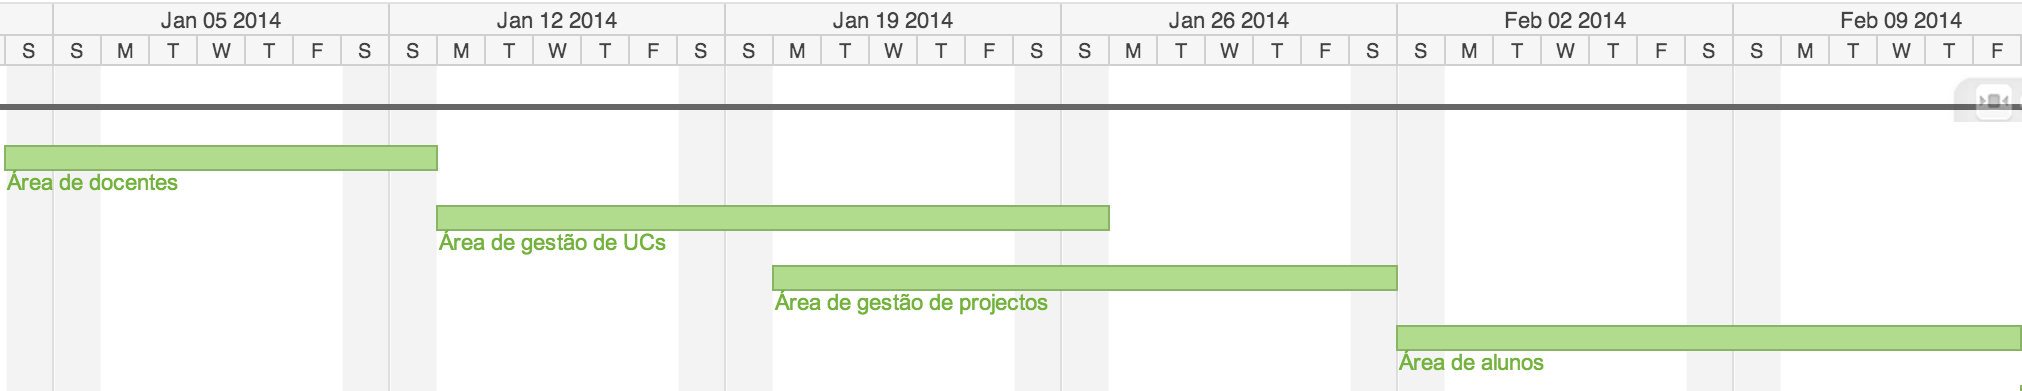
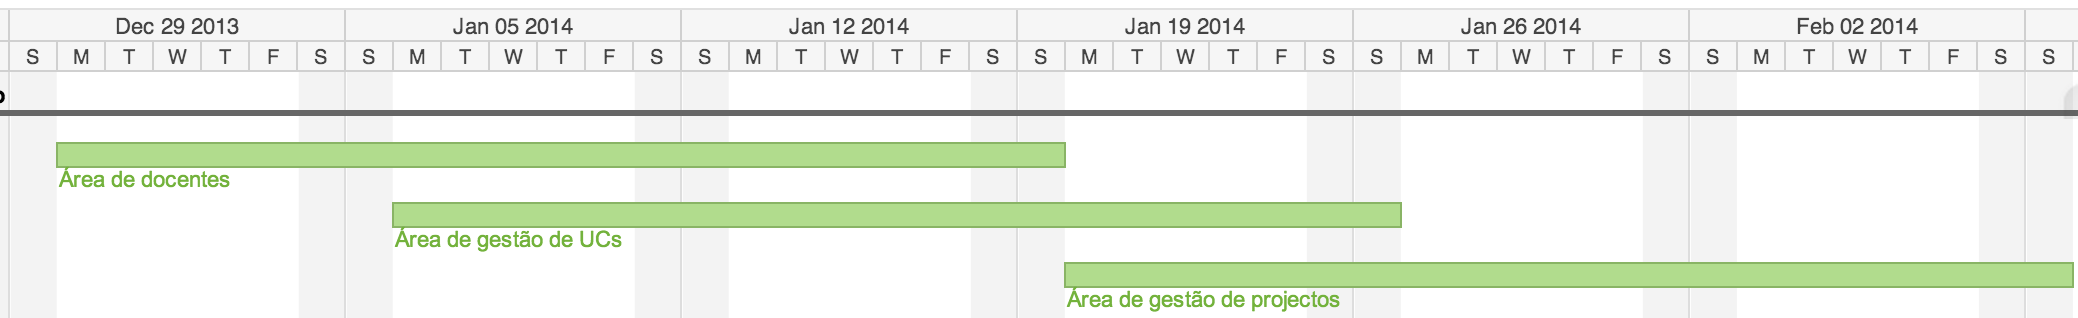
Adiciona novos diagramas e altera textos

diff --git a/plano_de_trabalho.tex b/plano_de_trabalho.tex
@@ -1,76 +1,82 @@
 \section{Plano de trabalho}
-Tendo em conta a dimensão da aplicaçãoewf,,,,,,,,,,,,,,,,,,, foi criado um plano de trabalho onde mapeámos as tarefas
-de desenvolvimento no tempo de forma contínua tornado assim possível adaptar um ritmo de trabalho
+Tendo em conta a dimensão da aplicação, foi criado um plano de trabalho onde se mapearam as tarefas
+de desenvolvimento no tempo de forma contínua, tornando assim possível adaptar um ritmo de trabalho
 consistente com os prazos de entrega de cada fase e então cumprir as metas do projecto.
-Nesse sentido dividimos o projecto em três fases, sendo elas o planeamento e análise de requisitos, o
-desenvolvimento e a documentação.
+Nesse sentido dividiu-se o projecto em três fases, sendo elas o \textbf{planeamento e análise de requisitos}, o
+\textbf{desenvolvimento} e a \textbf{documentação}.
 No que diz respeito à fase de planeamento e análise de requisitos, esta fase engloba todo o levantamento 
-de funcionalidades assim como todo o planeamento e estruturação do projecto como
-criação do modelo de domínio, diagrama de classes, modelação do repositório de dados,
-análise da concorrência, plano tecnológico, etc.
+de funcionalidades assim como todo o planeamento e estruturação do projecto 
+nomeadamente, criação do modelo de domínio, diagrama de classes, modelação do repositório de dados,
+análise da concorrência, plano de trabalho, plano tecnológico, casos de estudo, arquitectura do sistema, etc.
 Para esta fase de planeamento, análise e modelação foi criado um plano de um mês onde todas as tarefas 
-teriam de estar concluídas. Na imagem seguinte é possível ver um diagrama de Gannt com
+teriam de estar concluídas. Na Figura \ref{fig: workplan1} é possível ver um diagrama de Gannt com
 o planeamento inicial.
-
-
 
 \begin{figure}[htbp] 
 	\centering
-	\includegraphics[width=1\textwidth]{images/plano_trabalho_1.png}
+	\includegraphics[width=1\textwidth]{images/plano_de_trabalho/gannt_1.png}
  	\caption{Diagrama de Gannt para o planeamento e análise de requisitos}
  	\label{fig: workplan1}
 \end{figure}
 
-
 De seguida, prosseguindo para o planeamento da fase de desenvolvimento após 
 analisar as funcionalidades e modelar o sistema  é altura de começar a 
 prototipar a aplicação e começar a iterar sobre as funcionalidades a 
-implementar. Neste sentido englobámos aqui tarefas como prototipagem em HTML, 
+implementar. Neste sentido englobaram-se aqui tarefas como prototipagem em HTML, 
 criação de migrações na modelação da base dados, modelação das entidades a 
 representar (modelos) na forma da arquitectura MVC seguindo-se a implementação dos 
-controladores e visões tendo como base as funcionalidades a desenvolver para o 
-sistema.  Nesta fase pretende-se tornar a aplicação capaz de suportar os seus 
+controladores e visões, tendo como base as funcionalidades a desenvolver para o 
+sistema. Nesta fase pretende-se tornar a aplicação capaz de suportar os seus 
 utilizadores (não registados, docentes e alunos) das tarefas de gestão de UCs, 
-projectos, grupos, submissões, assim como consulta e disponibilização de 
-projectos. De forma a tornar a aplicação o mais robusta possível planeamos um 
-espaço temporal dedicado a testes de usabilidade e funcionalidade de forma a 
-corrigir todos os pormenores que possam ter um impacto negativo.
+projectos, grupos e submissões, assim como consulta e disponibilização de 
+projectos. No que diz respeito à metodologia de desenvolvimento seguir-se-ão 
+os métodos e princípios de desenvolvimento de software \textit{Agile}. Posto isto, 
+far-se-á um desenvolvimento cíclico e iterativo focado em cada grupo de 
+funcionalidades, desenvolvendo-as, testando-as e validando-as. Caso seja 
+necessário fazer novas iterações sobre um grupo de funcionalidades, basta 
+repetir o ciclo até que seja possível validar o que foi desenvolvido e de seguida inicia-se 
+um novo ciclo de desenvolvimento para o grupo de funcionalidades seguinte.
+Desta forma é possível uma rápida adaptação a mudanças e ajustes sem ter que verificar e 
+revalidar todo o planeamento inicial do projecto e ainda assim atingir as metas 
+definidas.
+Faça-se notar que em cada ciclo de desenvolvimento para além da implementação,
+ serão feitos testes de usabilidade e funcionalidade, dessa forma é possível garantir que em cada estado do 
+desenvolvimento, todas as funcionalidades implementadas encontram-se o mais perto 
+do idealizado possível.
+Durante cada ciclo de desenvolvimento também faremos a integração da 
+documentação relativa ao grupo de funcionalidades que estão a ser implementadas.
+É possível ver nas Figuras \ref{fig: workplan2}, \ref{fig: workplan3}, \ref{fig: workplan4} 
+os diagramas de Gannt com o planeamento respectivo à fase de desenvolvimento.
 
-
-\begin{figure}[htbp] 
+\begin{figure}[htbp!] 
 	\centering
-	\includegraphics[width=1\textwidth]{images/plano_trabalho_2.png}
+	\includegraphics[width=1\textwidth]{images/plano_de_trabalho/gannt_2.png}
  	\caption{Diagrama de Gannt para o desenvolvimento I}
  	\label{fig: workplan2}
 \end{figure}
 
-\begin{figure}[htbp] 
+\begin{figure}[htbp!] 
 	\centering
-	\includegraphics[width=1\textwidth]{images/plano_trabalho_3.png}
+	\includegraphics[width=1\textwidth]{images/plano_de_trabalho/gannt_3.png}
  	\caption{Diagrama de Gannt para o desenvolvimento II}
  	\label{fig: workplan3}
 \end{figure}
 
-\begin{figure}[htbp] 
+\begin{figure}[htbp!] 
 	\centering
-	\includegraphics[width=1\textwidth]{images/plano_trabalho_4.png}
+	\includegraphics[width=1\textwidth]{images/plano_de_trabalho/gannt_4.png}
  	\caption{Diagrama de Gannt para o desenvolvimento III}
  	\label{fig: workplan4}
 \end{figure}
-
-\begin{figure}[htbp!] 
-	\centering
-	\includegraphics[width=1\textwidth]{images/plano_trabalho_5.png}
- 	\caption{Diagrama de Gannt para o desenvolvimento IV}
- 	\label{fig: workplan5}
-\end{figure}
-
 
 Por fim, terminámos com a fase de documentação onde será feita toda a descrição 
 do sistema desenvolvido em termos de funcionalidades e implementação de forma a 
 possibilitar a consulta tanto aos interessados em utilizar a aplicação bem como 
 de forma a suportar a possível necessidade de manutenção da aplicação. Desta 
 forma qualquer um pode entender todo o sistema na sua plenitude através da 
-documentação criada. Para esta fase reservou-se o restante tempo disponível até 
-à entrega final do projecto.
+documentação criada. As tarefas desta fase serão distribuídas pelos ciclos de 
+desenvolvimento falados acima, em que cada fase de documentação será empregue no 
+mesmo ciclo de desenvolvimento das funcionalidades respectivas.
+O diagrama de Gannt completo encontra-se representado em Anexo na Figura \ref{fig: 
+workplan0}.
 

diff --git a/anexos.tex b/anexos.tex
@@ -1,1 +1,8 @@
 \section{Anexos}
+
+\begin{figure}[htbp!] 
+	\centering
+	\includegraphics[width=1\textwidth,angle=90]{images/plano_de_trabalho/gannt_0.png}
+ 	\caption{Diagrama de Gannt completo}
+ 	\label{fig: workplan0}
+\end{figure}
